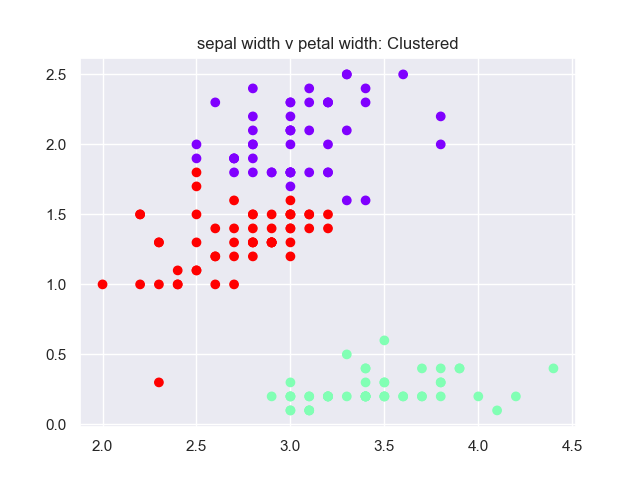
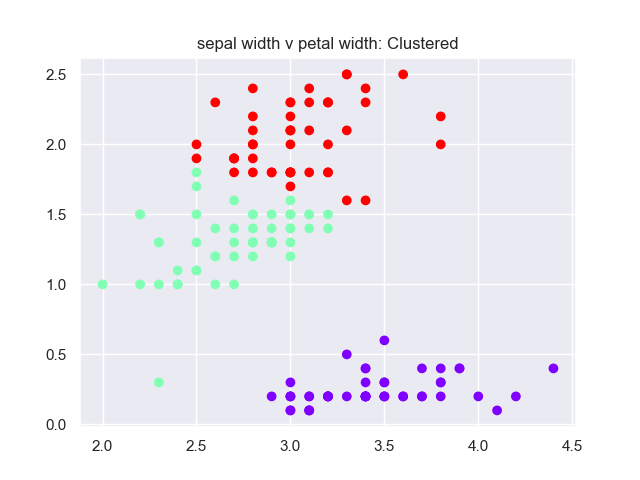
Added 3D plots and general tidy-up

diff --git a/xRoughwork/roughwork8.py b/xRoughwork/roughwork8.py
@@ -5,6 +5,9 @@
 # Author: Elaine Tynan
 # Start-date: 22/03/2022
 
+#import numpy as np
+#import pandas as pd
+#import statsmodels.api as sm
 import matplotlib.pyplot as plt
 import seaborn as sns
 sns.set()
@@ -17,16 +20,12 @@ from sklearn.model_selection import train_test_split
 from sklearn.tree import DecisionTreeClassifier
 from sklearn.metrics import accuracy_score
 
-# Importing plotly.express for 3D scatter graphs
-import plotly.express as px
-
 # The next comment (line 12) is to stop errors using df.loc
 # pylint: disable=no-member
 
 plotPath = './plots/'
 dataPath = './data/'
 statsPath= './summaryStats/'
-
 
 def plotIrisGrps(df, xcol, ycol, title, fname, xlabel='', ylabel=''):
     thePath = plotPath+'scatter/'
@@ -43,11 +42,13 @@ def plotIrisGrps(df, xcol, ycol, title, fname, xlabel='', ylabel=''):
     ax.set_xlabel(xcol, fontweight ='bold')
     ax.set_ylabel(ycol, fontweight ='bold')
     plt.savefig(thePath+fname)
+    #plt.show()
     
     # Close all plots
     plt.close('all')
 
-
+import matplotlib.patches as mpatches
+from matplotlib.colors import ListedColormap # Try
 def doClustering(dataset, xcol, ycol, xcolIdx, ycolIdx):
     thePath = plotPath+'cluster/'
     title = xcol + " v " + ycol + ": Clustered"
@@ -55,6 +56,9 @@ def doClustering(dataset, xcol, ycol, xcolIdx, ycolIdx):
 
     subset = dataset.iloc[:,[xcolIdx,ycolIdx]]
     
+    # Setup colours for plots
+    colors = ListedColormap(['r','b','g']) # Try
+
     # Do Clustering
     kmeans = KMeans(3) # an unsupervised machine learning technique used to identify clusters of data objects in a dataset. 
     kmeans.fit(subset) # Computes k-means clustering
@@ -62,18 +66,32 @@ def doClustering(dataset, xcol, ycol, xcolIdx, ycolIdx):
     
     data_with_clusters = subset.copy()
     data_with_clusters['Clusters'] = identified_clusters 
-    plt.scatter(data_with_clusters[xcol],data_with_clusters[ycol],c=data_with_clusters['Clusters'],cmap='rainbow')
+    #plt.scatter(data_with_clusters[xcol],data_with_clusters[ycol],c=data_with_clusters['Clusters'],cmap='rainbow')
+    plt.scatter(data_with_clusters[xcol],data_with_clusters[ycol],c=data_with_clusters['Clusters'],cmap=colors) # Try
     plt.title(title)
+    
+    # Try
+    colours = ['b','r','g']
+    i=0 # for using the colours
+    legendLst = dataset.loc[:,"class"].unique()
+    patches = []
+    for lbl in legendLst:
+        curPatch = mpatches.Patch(label = lbl, color=colours[i])
+        i += 1
+        patches.append(curPatch)
+    plt.legend(handles=patches)
+    # End try
 
     plt.savefig(thePath+fname)
     
     # Close all plots
     plt.close('all')
     
-
 # Bar Charts of summary statistics
+
 def barChartSummaryStat(df, colName):
     thePath = plotPath+'barSummary/'+colName+"/"
+    
     
     minDf = df.groupby('class', as_index=False)[colName].min()
     ax = minDf.plot.bar(x='class', y=colName, rot=0)
@@ -98,7 +116,6 @@ def barChartSummaryStat(df, colName):
     # Close all plots
     plt.close('all')
 
-
 def generateSummaryStats(df):
     # Get all rows for each class of Iris, then generate summary statistics & save them to csv
     setosa = df.loc[df['class'] == 'Iris-setosa']
@@ -113,11 +130,11 @@ def generateSummaryStats(df):
     virginicaStats = virginica.describe()
     virginicaStats.to_csv(statsPath+'virginicaStats.csv')
 
-
 def boxPlots(df):
     thePath = plotPath+'boxPlots/'
 
     # Do boxplots using seaborn for the experience of using the different package
+
     plt.figure() # for a new plot to clear old information
     ax = sns.boxplot(x="class", y="petal length", data=df)
     plt.title("Petal Length")
@@ -141,17 +158,7 @@ def boxPlots(df):
     # Close all plots
     plt.close('all')
 
-
 def doAndrewsCurves(df):
     andrews_curves(df, "class")
     plt.savefig(plotPath+"andrewsCurve.png")
     plt.close()
-
-
-
-def do3dPlots(df, xcol, ycol, zcol):
-    thePath = plotPath+'scatter3D/'
-
-    fig = px.scatter_3d(df, x=xcol, y=ycol, z=zcol, color='class', width=800, height=800)
-    fname = xcol + "_" + ycol + "_" + zcol + "_scatter3D.png"
-    fig.write_image(thePath+fname)

diff --git a/analysis.py b/analysis.py
@@ -36,19 +36,23 @@ pa.plotIrisGrps(df, 'petal width', 'sepal width', "Iris Data Set", "PetalWidthSe
 pa.plotIrisGrps(df, 'petal width', 'sepal length', "Iris Data Set", "PetalWidthSepalLength.png")
 pa.plotIrisGrps(df, 'petal length', 'sepal width', "Iris Data Set", "PetalLengthSepalWidth.png")
 
-
 # Do bar charts of summary statistics of each measurement
 pa.barChartSummaryStat(df, 'sepal length')
 pa.barChartSummaryStat(df, 'sepal width')
 pa.barChartSummaryStat(df, 'petal length')
 pa.barChartSummaryStat(df, 'petal width')
 
-# Generate Summary statistics
+# Generate Summary statistics in csv format
 pa.generateSummaryStats(df)
-# !!!! Check if this is creating the csv files (make a copy of old first)
 
 # Do boxplots
 pa.boxPlots(df)
 
 # Do Andrews Plot/Curve
 pa.doAndrewsCurves(df)
+
+# Do 3D plots
+pa.do3dPlots(df, 'sepal length', 'sepal width', 'petal width')
+pa.do3dPlots(df, 'petal length', 'petal width', 'sepal width')
+pa.do3dPlots(df, 'sepal length', 'sepal width', 'petal length')
+pa.do3dPlots(df, 'petal length', 'petal width', 'sepal length')

diff --git a/README.md b/README.md
@@ -5,6 +5,7 @@ Project for Programming and Scripting project.
 Introduction
 ~~~~~~~~~~~~
 After reading the project spec (Beatty, 2022) I read the UC Irvine Machine Learning Repository information on the Iris Data Set (Fisher, 1936), the link given in the project brief. This led me to the relevant papers but none of the links given worked for me, so I proceeded to do an online search for each of the papers. The first site I came across, from mirlab (Jyh-Shing, 1996), was remarkably similar to the initial link given but additionally it had some interesting graphs. The graphs were very helpful in understanding what data was being stored and how it was being used to distinguish between the different types of Iris flowers. It also gave me ideas on what kinds of analysis I should be doing for this project.
+
 At the initial stages of this project, I found the prospect of doing analysis on plants daunting as I am the opposite of green-fingered (I often refer to myself as black-fingered) and my gardening knowledge is sparse, at best. On looking at this initial page from mirilab, I am hopefully that gardening knowledge will not be an issue and that I can simply treat the data as I would any raw data.
 
 On further inspection of the mirilab web page it is a page from an online book about Data Clustering and Pattern recognition, which at an early stage seems like it could be helpful in this project.
@@ -12,14 +13,34 @@ On further inspection of the mirilab web page it is a page from an online book a
 
 The Iris Data Set
 ~~~~~~~~~~~~~~~~~
-The Iris dataset is famous as the dataset used in a paper in 1936 by R.A Fisher. The paper
-titled 'The Use of Multiple Measurements in Taxonomic Problems' includes fifty samples of data on three different species of the Iris Flower. Each Flower had the following information recorded about it: Sepal length in cm, Sepal width in cm, Petal length in cm, petal width in cm and class, where class is either 'Iris-setosa', 'Iris-versicolor' or 'Iris-virginica'.
-One flower species is linearly separable from the other two, while the other two are not linearly separable from each other. Data can be classed as linearly separable if a line can be drawn anywhere on the plane that will have all the data objects from one dataset at one side of it and all the datasets from the other dataset at the other side.
-The data set became a typical example for statistical analysis and machine learning. The fact that the data only contains two clusters (Iris Setosa in one cluster and Iris Versicolor with Iris Virginica in the other cluster) means it is not a good example for cluster analysis but inversely is a good example of the differences between supervised and unsupervised techniques in data mining as Iris Versicolor and Iris Virginica is not separable without further species information that Fisher used. (Wikipedia, 2022)
+The Iris dataset is famous as the dataset used in a paper in 1936 by R.A Fisher. The paper titled 'The Use of Multiple Measurements in Taxonomic Problems' includes fifty samples of data on three different species of the Iris Flower. Each Flower had the following information recorded about it: Sepal length in cm, Sepal width in cm, Petal length in cm, petal width in cm and class, where class is either 'Iris-setosa', 'Iris-versicolor' or 'Iris-virginica'.
+One flower species (Iris-setosa) is linearly separable from the other two, while the other two are not linearly separable from each other. Data can be classed as linearly separable if a line can be drawn anywhere on the plane that will have all the data objects from one dataset at one side of it and all the datasets from the other dataset at the other side.This is shown extensively in research of the Iris dataset and is clear in the analyses I consequently carried out.
+The Iris dataset became a typical example for statistical analysis and machine learning. The fact that the data only contains two clusters (Iris Setosa in one cluster and Iris Versicolor with Iris Virginica in the other cluster) means it is not a good example for cluster analysis but inversely is a good example of the differences between supervised and unsupervised techniques in data mining as Iris Versicolor and Iris Virginica is not separable without further species information that Fisher used (Wikipedia, 2022). The analyses I carried out has backed this up.
+
+
+
+Instructions for running code
+~~~~~~~~~~~~~~~~~~~~~~~~~~~~~
+Call the analysis.py python program. the plotAnalysis.py must be in the same folder as the analysis.py file
+The following directory and file must exist:
+./data - containing the Iris data set called 'iris.data'
+
+The following empty directories must exist:
+./summaryStats
+./plots
+./plots/barSummary
+./plots/cluster
+./plots/scatter
+./plots/scatter3D
+
+Plotly.Express and kaleido must be installed and can be doe so as follows:
+pip install plotly==5.7.0
+pip install kaleido
+
 
 
 Analysis
-~~~~~~~~~~~~
+~~~~~~~~
 Based on the analysis I have concluded the below information.
 
 
@@ -30,12 +51,12 @@ In the scatter graph of Sepal Length v Sepal Width it shows that the class Setos
 The scatter graph of Petal Length v Petal Width shows that the class Setosa has shorter and narrower petals than the other two class of Iris.
 The class Versicolor is both shorter and narrower than the class Virginica, which has the longest and widest petals of all 3.
 
-The remaining four scatter graphs (Petal Length v Sepal Length, Petal Length v Sepal Width, Petal Width v Sepal Length, Petal Width v Sepal Width) all show similar patterns where Iris Setosa clearly has the shortest and narrowest sepals and petals while the other two Irises are closer in size with the Versicolor having shorter and narrower petals and sepals than Virginica.
+The remaining four scatter graphs (Petal Length v Sepal Length, Petal Length v Sepal Width, Petal Width v Sepal Length, Petal Width v Sepal Width) all show similar patterns where Iris Setosa clearly has the shortest and widest sepals and shortest and narrowest petals while the other two Irises are closer in size with the Versicolor having shorter and narrower petals and sepals than Virginica.
 
 
 Cluster Plots
 
-The cluster plots again show a clear difference between Iris Setosa and the other two class of Iris. Again the Iris Setosa is smaller than the other two class of Iris is both length and width. In most cases using K-means clustering there is a clear distinction between Iris Setosa and the remaining two Iris class which makes it linearly separable from them. This is not true for Iris Versicolor and Iris Virginica.
+The cluster plots again show a clear difference between Iris Setosa and the other two class of Iris. Again, the Iris Setosa is smaller than the other two class of Iris is both length and width. In most cases using K-means clustering there is a clear distinction between Iris Setosa and the remaining two Iris class which makes it linearly separable from them. This is not true for Iris Versicolor and Iris Virginica.
 
 
 Box plots
@@ -59,19 +80,20 @@ Summary Statistics
 The summary statistics is a quick look at the same information that is shown in the box plots
 
 
+3D Scatter Plots
 
-Instructions
-~~~~~~~~~~~~
-Call the analysis.py python program. the plotAnalysis.py must be in the same folder as the analysis.py file
-The following directory and file must exist:
-./data - containing the Iris data set called 'iris.data'
+The 3D scatter plots showed very similar data to the scatter plots but presented them in a visually more striking way. Again Iris-setosa is smallest in petal length and width as well as sepal length, but has wider sepals. Iris-versicolor falls in the middle in all measurements but closer to Iris-virginica, which is the largest in all measurements except the sepal width.
 
-The following empty directories must exist:
-./summaryStats
-./plots
-./plots/barSummary
-./plots/cluster
-./plots/scatter
+
+
+Conclusion
+~~~~~~~~~~
+My initial trepidation of analysing data related to gardening was certainly unfounded. The Iris data set is clearly another set of data with categorical and continuous data.
+At this stage of the course, we have not covered data analyses in much detail. This was a good exercise to get us initiated into real data analytics, although I’m sure there will be a lot more to come.
+When researching the dataset, it is clear that it is widely used and has been researched and analysed to a great degree. With that in mind I have only scratched the surface and have certainly not revealed any ground-breaking revelations.
+What I have concluded is that Iris Setosa is clearly quite different to the other 2 classes of Iris. If one were to calculate the average area of the petals of all 3 class of Iris (there is no formula to calculate the surface area of an irregular shape), it is clear that the Iris Setosa would have the smallest petal surface area. The same can not be said for the sepal as the Iris Setosa sepal width is the largest, which would clearly make it difficult to differentiate form the Iris Versicolor and Iris Virginica based on surface area. In saying that, when looking at the individual dimensions (length and width) of the sepal, it is clearly different to the other two.
+While Iris Setosa is clearly different, the same cannot be said for Iris Virginica and Iris Versicolor. On close examination the Iris Versicolor is smaller but there is quite an overlap which would make it difficult to decide if an Iris were an Iris Versicolor or Iris Virginica based on measurements alone.
+Pictures of the three classes of Iris again back up the findings of my (and many others) analysis that the Iris Setosa is indeed quite different to the other two, which are quite similar, especially in size. 
 
 
 
@@ -83,7 +105,6 @@ Diary
 I researched how to do a scatter plot of two columns grouped by another column value using matplotlib and found a way that would allow me to add the three classes of lilies to one plot using a for loop here: https://stackoverflow.com/questions/21800004/pandas-for-loop-on-a-group-by
 
 I also found a way to set the Axes labels here: https://www.geeksforgeeks.org/matplotlib-axes-axes-set_xlabel-in-python/
-
 
 
 12/04/2022
@@ -102,7 +123,6 @@ Pranshu (2021) also outlined some easy-to-follow python code.
 Some other code I researched was the use of loc and iloc in dataframes. These had been covered in our classes, but I needed more in-depth knowledge when using them. I found useful information at https://pandas.pydata.org/docs/reference/api/pandas.DataFrame.loc.html  and https://pandas.pydata.org/docs/reference/api/pandas.DataFrame.iloc.html. Also following on from the information I found on K-means Clustering I wanted a little more knowledge of the structure of the function which I found here: https://scikit-learn.org/stable/modules/generated/sklearn.cluster.KMeans.html
 
 
-
 19/04/2022
 ~~~~~~~~~~
 Based on the summary statistics that are generated by the dataframe.describe() function I decided to generate bar charts from the statistics. The format of the summary statistics was inconvenient, and it made more sense to generate the statistics individually for each measurement grouped by class. This gave be a dataframe for each measurement and also for each statistic, e.g., for Iris-setosa I has four dataframes (min, mean, max & standard deviation) for each measurement. I did not save these as I also generated the summary statistics for each class using the above mentioned dataframe.describe() function. I did save these summary statistics to csv files. I generated and saved the bar charts using the dataframe.groupby() function and the individual statistical functions. as per the example on https://datascienceparichay.com/article/pandas-groupby-minimum/ and then tried replacing 'min' with the various different statistics I required.
@@ -112,7 +132,6 @@ I also did some tidying up and moved code that was no longer being used from the
 The analysis.py file is now essentially a series of calls to functions while the plotAnalysis.py file is a series of functions. I think later in the process I will rename plotAnalysis.py to something more meaningful.
 
 
-
 20/04/2022
 ~~~~~~~~~~
 I put in the function to create four boxplots, one for each of the four measurements, all grouped by Iris class. This is a good visualisation of the Min, Max, 1st, 2nd and 3rd quartiles of each class of Iris mased on the four measurements. This new function is called by the analysis.py program. 
@@ -120,11 +139,16 @@ I saw this as an opportunity to use the Seaborn package as all the rest of my pl
 I had been getting a warning about having more than twenty plots opened (even though I was saving the plots and not showing them, they were in fact ‘open’) so I did research into how I could prevent this. I did not want to simply supress the warning as the warning message suggested as I felt if the plots were ‘open’ this could be a memory issue. I found a solution on stackoverflow, where I could close all plots with one command and called this at the end of every function that created multiple plots at this link: https://stackoverflow.com/questions/21884271/warning-about-too-many-open-figures.
 
 
-
 25/04/2022
 ~~~~~~~~~~
 Today I found an interesting data visualisation called the Andrews Plot, or in Python the andrews_curve (Yashi, 2021). This can be used to find outliers in data but more importantly in the case of the Iris-dataset, it can be used “as a technique for classifying observations into groups”, (Spencer, 2003). Spencer (2003) goes on to explain how the Andrews plot will produce similar curves for data in groups with similar patterns for grouped data. The plot created from the Iris dataset clearly shows the 3 groups and how the data differs and also overlaps.
 I also did some research on decision tress but decided not to use them. For my level of knowledge in data analyses so far, I felt it did not add any value to my analyses of the Iris Dataset.
+
+
+27/04/2022
+~~~~~~~~~~
+I decided to include £d scatter graphs to my analysis. This involved installing both plotly.express which needed to be installed. This was good experience is using a new package that I had never heard of as well as installing packages. To save the plot using Plotly express I also needed to install kaleido (instruction given for installing both above). The 3D scatter graphs are a little more complicated to use compared to regular scatter graphs but that is to be expected. Good code samples and information was supplied by the Portylu website (2022). I had also looked at various other ways of doing them such as Bedre (2022) and Devakumar (2020) showed but I wanted to try a new package as well as the fact that the using plotly made the code quite simple.
+
 
 
 References
@@ -135,7 +159,11 @@ https://realpython.com/k-means-clustering-python/ (Accessed: 12 April 2022)
 
 Beatty, A. (2022), PROJECT: Programming and Scripting. Available at: https://learnonline.gmit.ie/pluginfile.php/547122/mod_label/intro/Project.pdf?time=1646300056436 (Accessed: 22 March 2022)
 
+Bedre, R. (2022), Create scatter plots using Python (matplotlib pyplot.scatter). Available at: https://www.reneshbedre.com/blog/scatter-plot-matplotlib.html (Accessed: 27 April 2022)
+
 Data Science Parichay (2021), Minimum Value in Each Group – Pandas Groupby. Available at: https://datascienceparichay.com/article/pandas-groupby-minimum/ (Accessed: 19 April 2022)
+
+Devakumar, K. P. (2020), Plotly Express 3D Scatter Plot - Iris Data. Available at: https://www.kaggle.com/code/imdevskp/plotly-express-3d-scatter-plot-iris-data/notebook (Accessed 27 April 2022)
 
 Dua, D. and Graff, C. (2019). UCI Machine Learning Repository. Irvine, CA: University of California, School of Information and Computer Science. Available at: https://archive.ics.uci.edu/ml/datasets/iris
 (Accessed: 22 March 2022)
@@ -148,9 +176,9 @@ Jyh-Shing Roger Jang (1996), Data Clustering and Pattern Recognition. available 
 
 Pranshu, (2021), K Means Clustering Simplified in Python. Available at: https://www.analyticsvidhya.com/blog/2021/04/k-means-clustering-simplified-in-python/ (Accessed: 12 April 2022)
 
+Plotly (2022), 3D Scatter Plots in Python. Available at: https://plotly.com/python/3d-scatter-plots/ (Accessed: 27 April 2022)
   
 Spencer N.H. (2003), Investigating Data with Andrews Plots. Social Science Computer Review. Available at: https://citeseerx.ist.psu.edu/viewdoc/download?doi=10.1.1.608.6250&rep=rep1&type=pdf (Accessed: 25 April 2022)
-
 
 Yashi S. (2021), Analyzing Decision Tree and K-means Clustering using Iris dataset. Available at: https://www.analyticsvidhya.com/blog/2021/06/analyzing-decision-tree-and-k-means-clustering-using-iris-dataset/ (Accessed: 25 April 2022)
   
